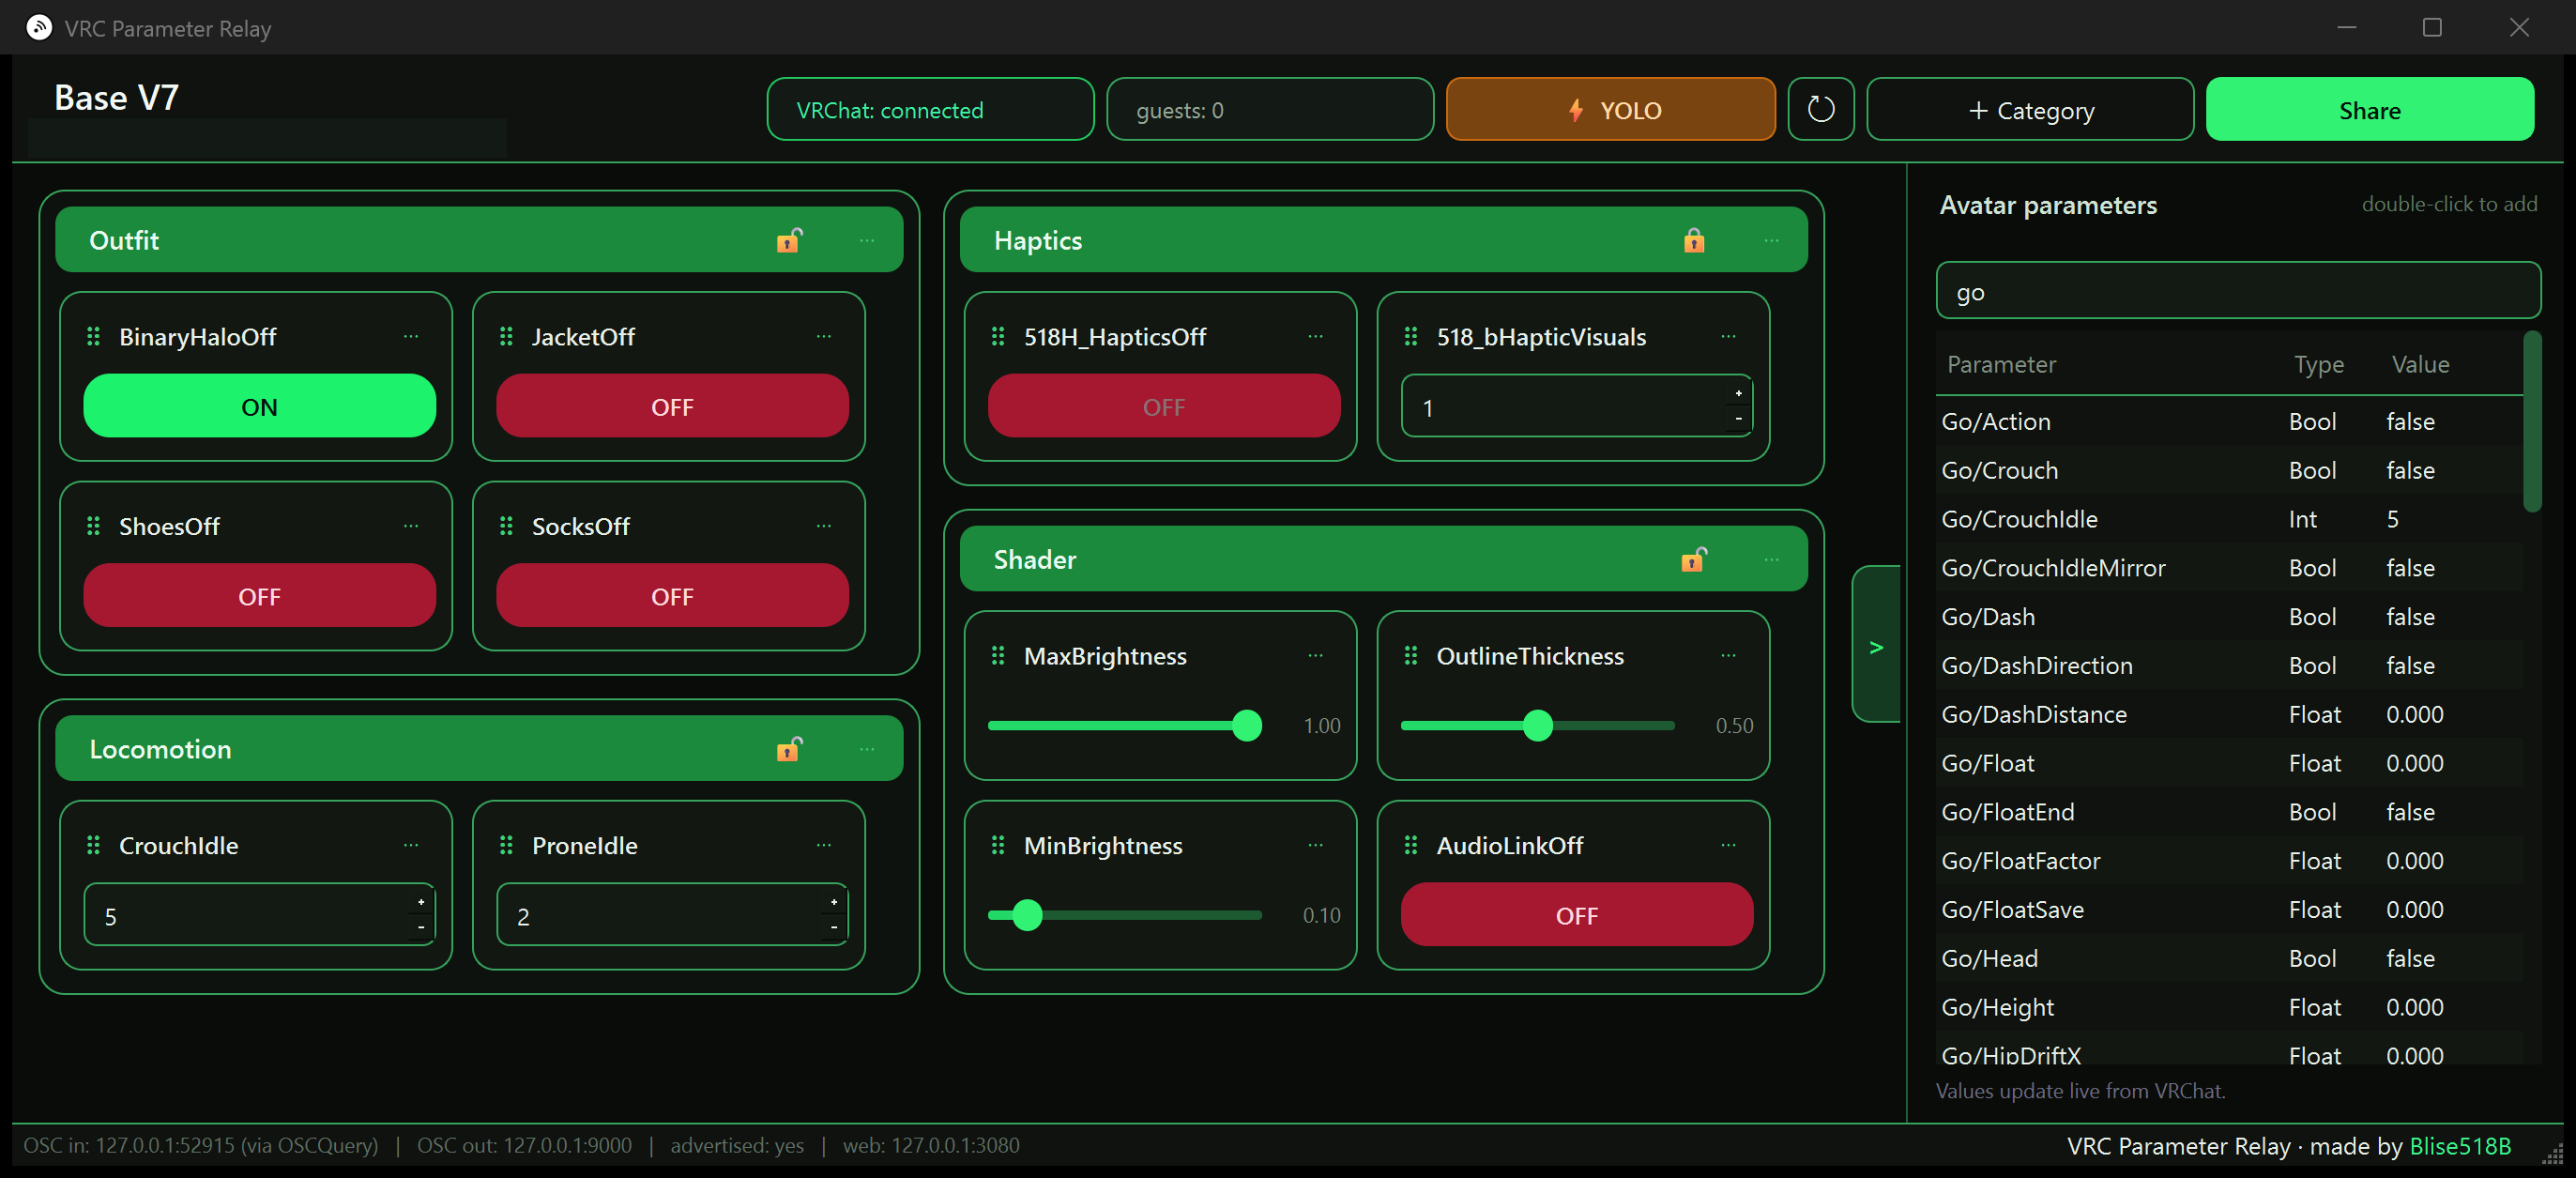
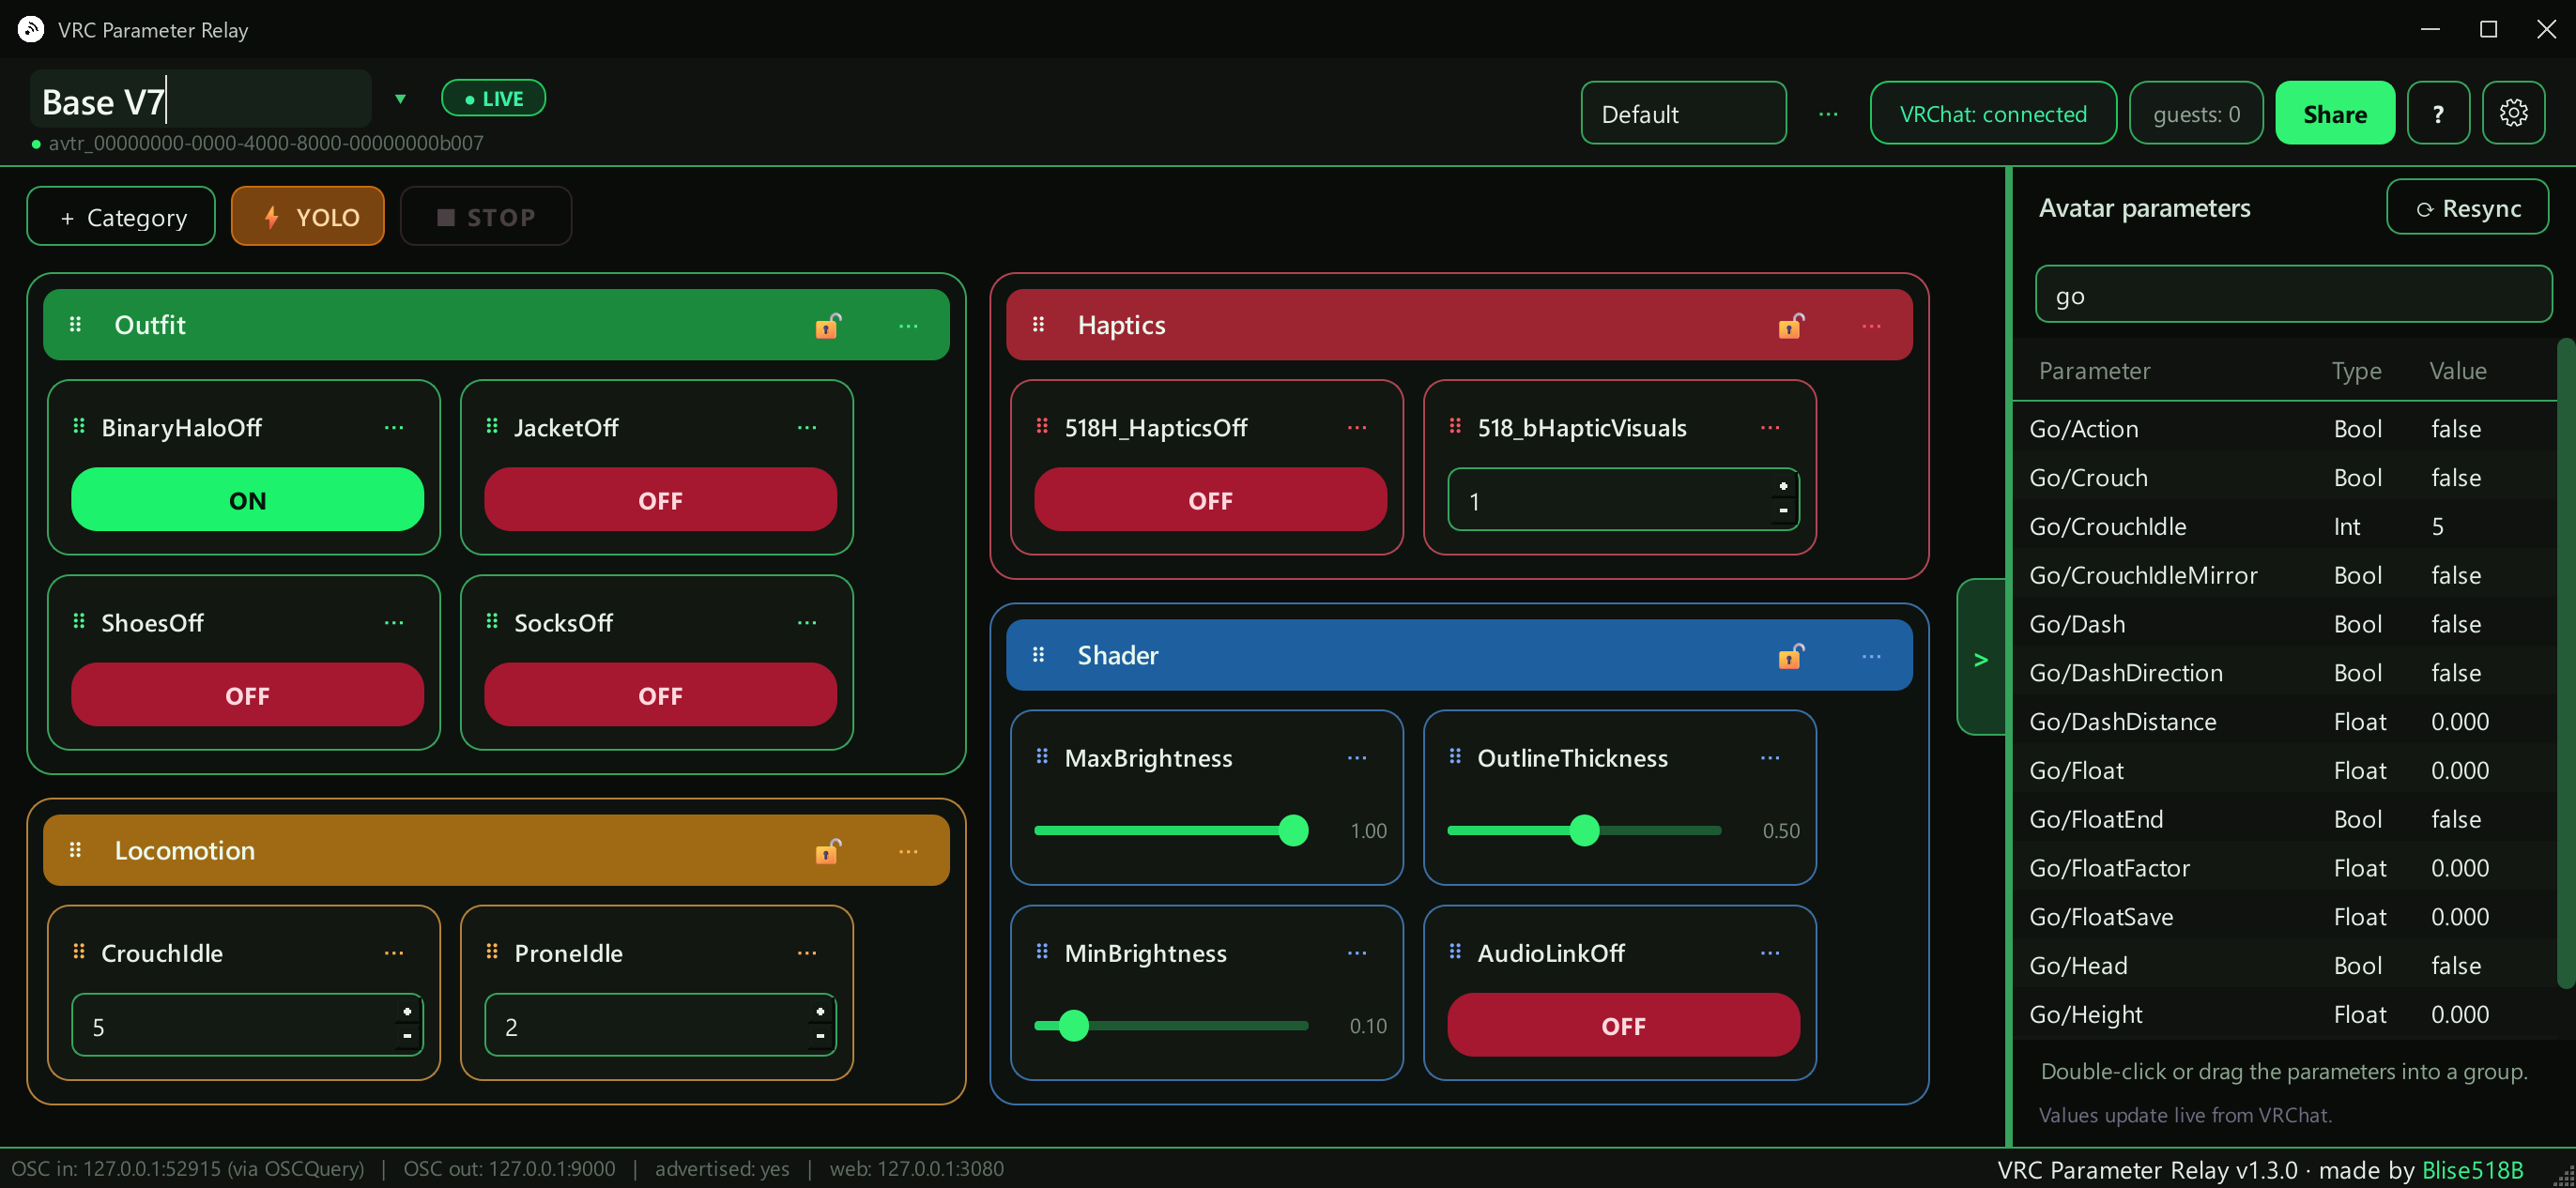
Refresh README screenshot with the new UI, colours and v1.3.0

diff --git a/tools/readme_shot.py b/tools/readme_shot.py
@@ -1,0 +1,154 @@
+"""Recreate docs/screenshot.png with the current UI, same demo content.
+
+Renders the window at 2x (crisp) offscreen and composites a Windows-11-style
+dark title bar on top, to match the original hero image.
+"""
+import os
+import sys
+from pathlib import Path
+
+sys.path.insert(0, str(Path(__file__).parent.parent))
+os.environ["QT_QPA_PLATFORM"] = "offscreen"
+os.environ.setdefault("QT_QPA_FONTDIR", r"C:\Windows\Fonts")
+
+SCALE = 2  # crisp retina-style render via a painter transform
+
+AVATAR = "avtr_00000000-0000-4000-8000-00000000b007"
+
+from PySide6.QtCore import QPoint, QRect, Qt, QTimer  # noqa: E402
+from PySide6.QtGui import QColor, QFont, QImage, QPainter, QPen  # noqa: E402
+from PySide6.QtWidgets import QApplication  # noqa: E402
+
+from vrc_parameter_relay import resource_path  # noqa: E402
+from vrc_parameter_relay.core import AppCore  # noqa: E402
+from vrc_parameter_relay.store import Store  # noqa: E402
+from vrc_parameter_relay.tunnel import Tunnel  # noqa: E402
+from vrc_parameter_relay.ui.main_window import MainWindow  # noqa: E402
+from vrc_parameter_relay.ui.theme import build_qss, load_bundled_fonts  # noqa: E402
+
+
+class StubLink:
+    on_param = on_avatar = on_full_sync = on_status = None
+
+    def send_param(self, *a):
+        return True
+
+    def refetch(self):
+        pass
+
+
+BOARD_PARAMS = {
+    "BinaryHaloOff": ("Bool", True), "JacketOff": ("Bool", False),
+    "ShoesOff": ("Bool", False), "SocksOff": ("Bool", False),
+    "518H_HapticsOff": ("Bool", False), "518_bHapticVisuals": ("Int", 1),
+    "CrouchIdle": ("Int", 5), "ProneIdle": ("Int", 2),
+    "MaxBrightness": ("Float", 1.0), "OutlineThickness": ("Float", 0.5),
+    "MinBrightness": ("Float", 0.1), "AudioLinkOff": ("Bool", False),
+}
+GO_PARAMS = {
+    "Go/Action": ("Bool", False), "Go/Crouch": ("Bool", False),
+    "Go/CrouchIdle": ("Int", 5), "Go/CrouchIdleMirror": ("Bool", False),
+    "Go/Dash": ("Bool", False), "Go/DashDirection": ("Bool", False),
+    "Go/DashDistance": ("Float", 0.0), "Go/Float": ("Float", 0.0),
+    "Go/FloatEnd": ("Bool", False), "Go/FloatFactor": ("Float", 0.0),
+    "Go/FloatSave": ("Float", 0.0), "Go/Head": ("Bool", False),
+    "Go/Height": ("Float", 0.0), "Go/HipDriftX": ("Float", 0.0),
+}
+
+
+def build_board(core: AppCore) -> None:
+    core._on_avatar_change(AVATAR)  # live avatar
+    for name, (ptype, value) in {**BOARD_PARAMS, **GO_PARAMS}.items():
+        core._on_osc_param(name, ptype, value)
+
+    cats = core.board["categories"]
+    layout = [("Outfit", "green"), ("Haptics", "red"),
+              ("Locomotion", "yellow"), ("Shader", "blue")]
+    for cat, (name, color) in zip(cats, layout):
+        core.rename_category(cat["id"], name)
+        core.set_category_color(cat["id"], color)
+    outfit, haptics, locomotion, shader = (c["id"] for c in cats)
+
+    for p in ("BinaryHaloOff", "JacketOff", "ShoesOff", "SocksOff"):
+        core.add_control(p, "toggle", p, category=outfit)
+    core.add_control("518H_HapticsOff", "toggle", "518H_HapticsOff", category=haptics)
+    core.add_control("518_bHapticVisuals", "int", "518_bHapticVisuals", 0, 255, category=haptics)
+    core.add_control("CrouchIdle", "int", "CrouchIdle", 0, 255, category=locomotion)
+    core.add_control("ProneIdle", "int", "ProneIdle", 0, 255, category=locomotion)
+    core.add_control("MaxBrightness", "slider", "MaxBrightness", 0, 1, category=shader)
+    core.add_control("OutlineThickness", "slider", "OutlineThickness", 0, 1, category=shader)
+    core.add_control("MinBrightness", "slider", "MinBrightness", 0, 1, category=shader)
+    core.add_control("AudioLinkOff", "toggle", "AudioLinkOff", category=shader)
+
+    core.rename_avatar("Base V7")
+    core.set_yolo(True)
+
+
+def title_bar(painter: QPainter, w: int, h: int) -> None:
+    painter.fillRect(0, 0, w, h, QColor("#0a0c0a"))
+    icon = QImage(str(resource_path("assets/icon.png")))
+    if not icon.isNull():
+        s = 34
+        painter.drawImage(QRect(16, (h - s) // 2, s, s), icon)
+    painter.setPen(QColor("#c3cdc6"))
+    f = QFont("Segoe UI")
+    f.setPixelSize(22)
+    painter.setFont(f)
+    painter.drawText(QRect(62, 0, w - 300, h), Qt.AlignVCenter | Qt.AlignLeft,
+                     "VRC Parameter Relay")
+    # window controls (minimize / maximize / close)
+    painter.setPen(QPen(QColor("#c8ccc9"), 2))
+    bw, cy = 62, h // 2
+    close_x = w - bw // 2
+    painter.drawLine(close_x - 9, cy - 9, close_x + 9, cy + 9)
+    painter.drawLine(close_x - 9, cy + 9, close_x + 9, cy - 9)
+    max_x = w - bw - bw // 2
+    painter.drawRect(max_x - 8, cy - 8, 16, 16)
+    min_x = w - 2 * bw - bw // 2
+    painter.drawLine(min_x - 9, cy, min_x + 9, cy)
+
+
+def main() -> int:
+    store = Store()
+    core = AppCore(store, StubLink())
+    web = type("Web", (), {"port": 3080, "requested_port": 3080})()
+    tunnel = Tunnel(store)
+    build_board(core)
+
+    app = QApplication(sys.argv[:1])
+    app.setStyle("Fusion")
+    load_bundled_fonts()
+    app.setStyleSheet(build_qss(store.settings["theme"], store.settings["font"]))
+    win = MainWindow(core, tunnel, web)
+    win.search.setText("go")
+    core.emit({"t": "vrc_status", "vrchat_found": True, "osc_port": 52915,
+               "send_target": "127.0.0.1:9000", "advertised": True})
+    win.resize(1372, 602)
+    win.show()
+
+    out = Path(__file__).parent.parent / "docs" / "screenshot.png"
+
+    def grab() -> None:
+        try:
+            w, h = win.width(), win.height()
+            cw, ch = w * SCALE, h * SCALE
+            tb = 31 * SCALE
+            final = QImage(cw, ch + tb, QImage.Format_RGB32)
+            final.fill(QColor("#0a0c0a"))
+            p = QPainter(final)
+            title_bar(p, cw, tb)
+            p.translate(0, tb)
+            p.scale(SCALE, SCALE)          # re-rasterise the UI at 2x = crisp
+            win.render(p, QPoint(0, 0))
+            p.end()
+            final.save(str(out))
+            print(f"saved {out}  ({final.width()}x{final.height()})  window {w}x{h}")
+        finally:
+            app.quit()
+
+    QTimer.singleShot(1300, grab)
+    return app.exec()
+
+
+if __name__ == "__main__":
+    raise SystemExit(main())

diff --git a/vrc_parameter_relay/__init__.py b/vrc_parameter_relay/__init__.py
@@ -2,7 +2,7 @@
 import sys
 from pathlib import Path
 
-__version__ = "1.2.0"
+__version__ = "1.3.0"
 APP_NAME = "VRC Parameter Relay"
 DATA_DIR_NAME = "VRCParameterRelay"
 AUTHOR = "Blise518B"